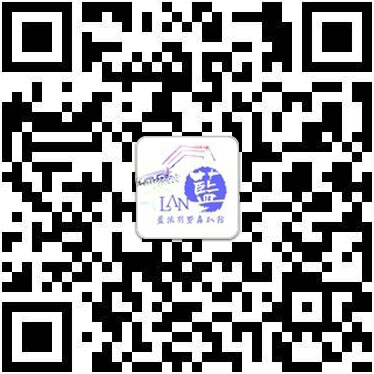
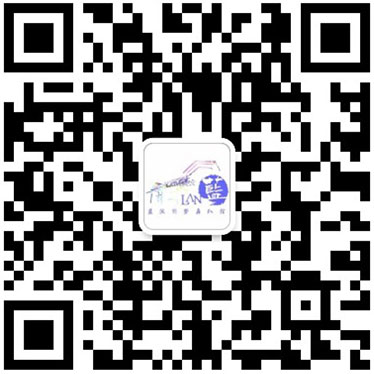
update 20161216 字段修改

diff --git a/about.html b/about.html
@@ -45,7 +45,7 @@
           <li><a href="photo.html">照片墙</a></li>
           <li><a href="about.html" class="active">关于我们</a></li>
           <li><a href="tel:18117409991">181-1740-9991</a></li>
-          <li>微信客服：lanpaish</li>
+          <li>微信客服：lanpartysh</li>
           <li><img src="img/wechat.jpg" alt="客服二维码"></li>
         </ul>
       </div>
@@ -75,7 +75,7 @@
             <div class="aboutus-info-text">
               <h3>关于我们</h3>
               <div class="line"></div>
-              <p>【蓝派】是沪上唯一一家专注于做【高端】私人别墅派对与专业企业客户服务的【顶级别墅资产管理品牌】。蓝派团队由美国华侨、英国硕士、法国米其林三星级名厨、国内五星级行政主厨、部分本科学历管家等高等引进人才组成，严格拒绝兼职服务。【蓝派】专注于提供价值5000万至上亿的【顶级花园独栋别墅】，实现您真正的【别墅贵族体验】！</p>
+              <p>【蓝派】是沪上唯一一家专注于做【高端】私人别墅派对与专业企业客户服务的【顶级别墅资产管理品牌】。蓝派是欧润（上海）投资有限公司旗下高端会所品牌，蓝派团队由美国华侨、英国硕士、法国米其林三星级名厨、国内五星级行政主厨、部分本科学历管家等高等引进人才组成，严格拒绝兼职服务。【蓝派】专注于提供价值5000万至上亿的【顶级花园独栋别墅】，实现您真正的【别墅贵族体验】！</p>
               <p class="s2"><strong>我们的服务理念： </strong></br>【 The Best or Nothing ！ 】</br> 一直被模仿，从未被超越！</p>
             </div>
           </article>

diff --git a/food.html b/food.html
@@ -45,7 +45,7 @@
           <li><a href="photo.html">照片墙</a></li>
           <li><a href="about.html">关于我们</a></li>
           <li><a href="tel:18117409991">181-1740-9991</a></li>
-          <li>微信客服：lanpaish</li>
+          <li>微信客服：lanpartysh</li>
           <li><img src="img/wechat.jpg" alt="客服二维码"></li>
         </ul>
       </div>

diff --git a/place.html b/place.html
@@ -45,7 +45,7 @@
           <li><a href="photo.html">照片墙</a></li>
           <li><a href="about.html">关于我们</a></li>
           <li><a href="tel:18117409991">181-1740-9991</a></li>
-          <li>微信客服：lanpaish</li>
+          <li>微信客服：lanpartysh</li>
           <li><img src="img/wechat.jpg" alt="客服二维码"></li>
         </ul>
       </div>

diff --git a/service.html b/service.html
@@ -45,7 +45,7 @@
           <li><a href="photo.html">照片墙</a></li>
           <li><a href="about.html">关于我们</a></li>
           <li><a href="tel:18117409991">181-1740-9991</a></li>
-          <li>微信客服：lanpaish</li>
+          <li>微信客服：lanpartysh</li>
           <li><img src="img/wechat.jpg" alt="客服二维码"></li>
         </ul>
       </div>

diff --git a/photo.html b/photo.html
@@ -57,7 +57,7 @@
         <li><a href="photo.html" class="active">照片墙</a></li>
         <li><a href="about.html">关于我们</a></li>
         <li><a href="tel:18117409991">181-1740-9991</a></li>
-        <li>微信客服：lanpaish</li>
+        <li>微信客服：lanpartysh</li>
         <li><img src="img/wechat.jpg" alt="客服二维码"></li>
       </ul>
     </div>

diff --git a/index.html b/index.html
@@ -128,7 +128,7 @@
         <li><a href="photo.html">照片墙</a></li>
         <li><a href="about.html">关于我们</a></li>
         <li><a href="tel:18117409991">181-1740-9991</a></li>
-        <li>微信客服：lanpaish</li>
+        <li>微信客服：lanpartysh</li>
         <li><img src="img/wechat.jpg" alt="客服二维码"></li>
       </ul>
     </div>
